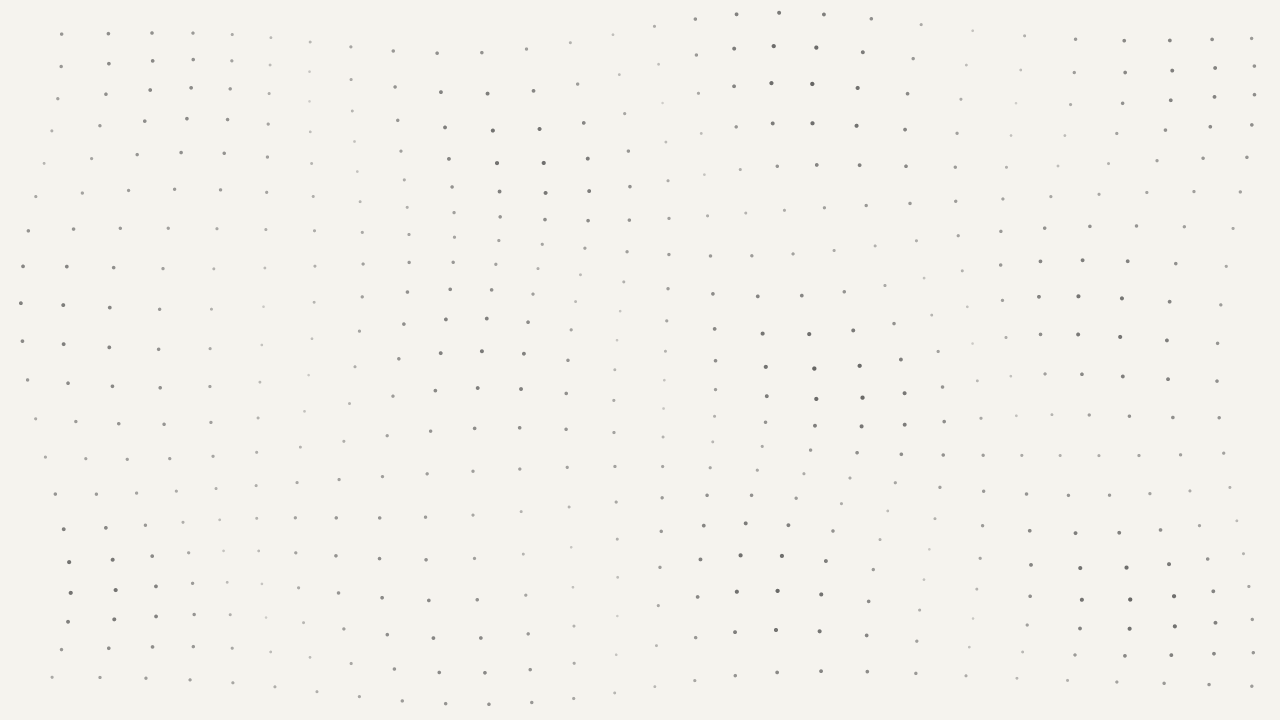
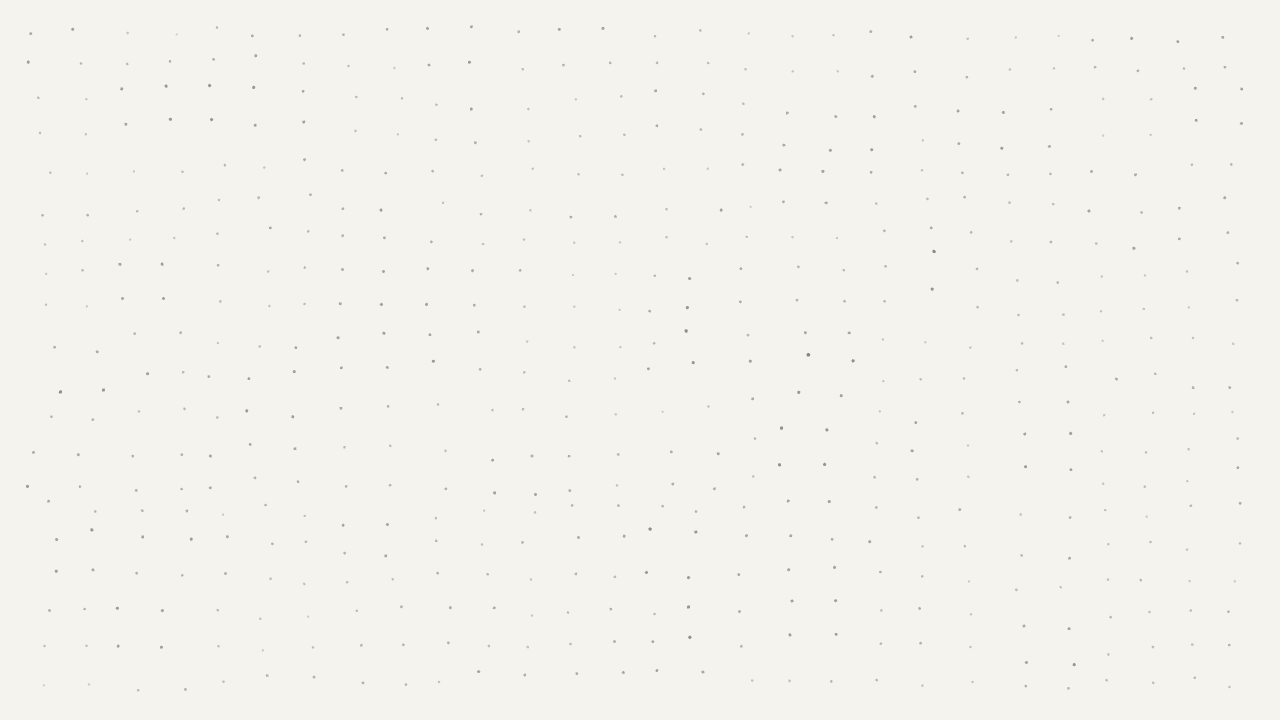
feat: redo sketch 127_grid_drift (p5.js)

diff --git a/sketches/127_grid_drift/index.html b/sketches/127_grid_drift/index.html
@@ -24,96 +24,76 @@
   </style>
 </head>
 <body>
-<canvas id="c"></canvas>
+<script src="https://cdnjs.cloudflare.com/ajax/libs/p5.js/1.9.0/p5.min.js"></script>
 <script>
-const canvas = document.getElementById('c');
-const ctx = canvas.getContext('2d');
-
-let W, H;
 const COLS = 28;
 const ROWS = 20;
-let SPACEX, SPACEY;
+const DRIFT_AMP = 32;
+const DRIFT_SPEED = 0.008;
+const RESET_DURATION = 80;
+
 let points = [];
 let resetMode = false;
 let resetTimer = 0;
-const RESET_DURATION = 80; // frames
-
-// Simple deterministic noise using sine
-function noise2d(x, y, t) {
-  return Math.sin(x * 1.3 + t * 0.7) * Math.cos(y * 1.1 - t * 0.5) * 0.5 +
-         Math.sin(x * 0.7 - y * 0.9 + t * 0.4) * 0.5;
-}
+let t = 0;
 
 function initPoints() {
-  SPACEX = W / (COLS + 1);
-  SPACEY = H / (ROWS + 1);
+  const spacex = width / (COLS + 1);
+  const spacey = height / (ROWS + 1);
   points = [];
   for (let row = 0; row < ROWS; row++) {
     for (let col = 0; col < COLS; col++) {
-      const ox = SPACEX * (col + 1);
-      const oy = SPACEY * (row + 1);
-      points.push({
-        ox, oy,    // origin
-        x: ox, y: oy,  // current
-        row, col
-      });
+      const ox = spacex * (col + 1);
+      const oy = spacey * (row + 1);
+      points.push({ ox, oy, x: ox, y: oy, row, col });
     }
   }
 }
 
-function resize() {
-  W = canvas.width = window.innerWidth;
-  H = canvas.height = window.innerHeight;
+function setup() {
+  createCanvas(windowWidth, windowHeight);
+  initPoints();
+  noStroke();
+}
+
+function windowResized() {
+  resizeCanvas(windowWidth, windowHeight);
   initPoints();
 }
-window.addEventListener('resize', resize);
-resize();
 
-canvas.addEventListener('click', () => {
+function mousePressed() {
   resetMode = true;
   resetTimer = 0;
-});
-canvas.addEventListener('touchstart', e => {
-  e.preventDefault();
+}
+
+function touchStarted() {
   resetMode = true;
   resetTimer = 0;
-}, { passive: false });
-
-const DRIFT_AMP = 28; // max drift pixels
-const DRIFT_SPEED = 0.006;
-let frame = 0;
+  return false;
+}
 
 function draw() {
-  requestAnimationFrame(draw);
-  frame++;
-
-  ctx.fillStyle = '#F5F3EE';
-  ctx.fillRect(0, 0, W, H);
-
-  const t = frame * DRIFT_SPEED;
+  background('#F5F3EE');
+  t += DRIFT_SPEED;
 
   if (resetMode) {
     resetTimer++;
-    if (resetTimer > RESET_DURATION) {
-      resetMode = false;
-    }
+    if (resetTimer > RESET_DURATION) resetMode = false;
   }
 
   for (const p of points) {
-    let targetX, targetY;
+    // p5.js noise() for smooth drift
+    const nx = p.col * 0.4;
+    const ny = p.row * 0.4;
+    const driftX = (noise(nx, ny, t) * 2 - 1) * DRIFT_AMP;
+    const driftY = (noise(nx + 100, ny + 100, t) * 2 - 1) * DRIFT_AMP;
 
+    let targetX, targetY;
     if (resetMode) {
-      // Ease back to origin
-      const progress = resetTimer / RESET_DURATION;
-      const ease = 1 - Math.pow(1 - progress, 3);
-      const driftX = noise2d(p.col * 0.4, p.row * 0.4, t) * DRIFT_AMP;
-      const driftY = noise2d(p.col * 0.4 + 100, p.row * 0.4 + 100, t) * DRIFT_AMP;
+      const ease = 1 - pow(1 - resetTimer / RESET_DURATION, 3);
       targetX = p.ox + driftX * (1 - ease);
       targetY = p.oy + driftY * (1 - ease);
     } else {
-      // Drift with noise
-      const driftX = noise2d(p.col * 0.4, p.row * 0.4, t) * DRIFT_AMP;
-      const driftY = noise2d(p.col * 0.4 + 100, p.row * 0.4 + 100, t) * DRIFT_AMP;
       targetX = p.ox + driftX;
       targetY = p.oy + driftY;
     }
@@ -121,28 +101,23 @@ function draw() {
     p.x += (targetX - p.x) * 0.08;
     p.y += (targetY - p.y) * 0.08;
 
-    // Displacement magnitude for alpha
     const dx = p.x - p.ox;
     const dy = p.y - p.oy;
-    const dist = Math.sqrt(dx * dx + dy * dy);
+    const dist = sqrt(dx * dx + dy * dy);
     const alpha = 0.18 + (dist / DRIFT_AMP) * 0.45;
     const radius = 1.2 + (dist / DRIFT_AMP) * 0.8;
 
-    ctx.beginPath();
-    ctx.arc(p.x, p.y, radius, 0, Math.PI * 2);
-    ctx.fillStyle = `rgba(42, 42, 42, ${alpha})`;
-    ctx.fill();
+    fill(42, 42, 42, alpha * 255);
+    ellipse(p.x, p.y, radius * 2);
   }
 }
-
-draw();
 </script>
 <script>
 window.SKETCH_META = {
   num:    '127',
   title:  'Grid Drift',
   desc:   '整列した点が、じわじわとずれていく。どれが本来の位置かわからなくなる頃、クリックすると戻ってくる。',
-  detail: 'ノイズ関数で各点をゆっくり揺らしています。クリックするとすべての点が元の格子位置に戻ろうとします。'
+  detail: 'p5.jsのノイズ関数で各点をゆっくり揺らしています。クリックするとすべての点が元の格子位置に戻ろうとします。'
 };
 </script>
 <script src="../../js/sketch-ui.js"></script>
